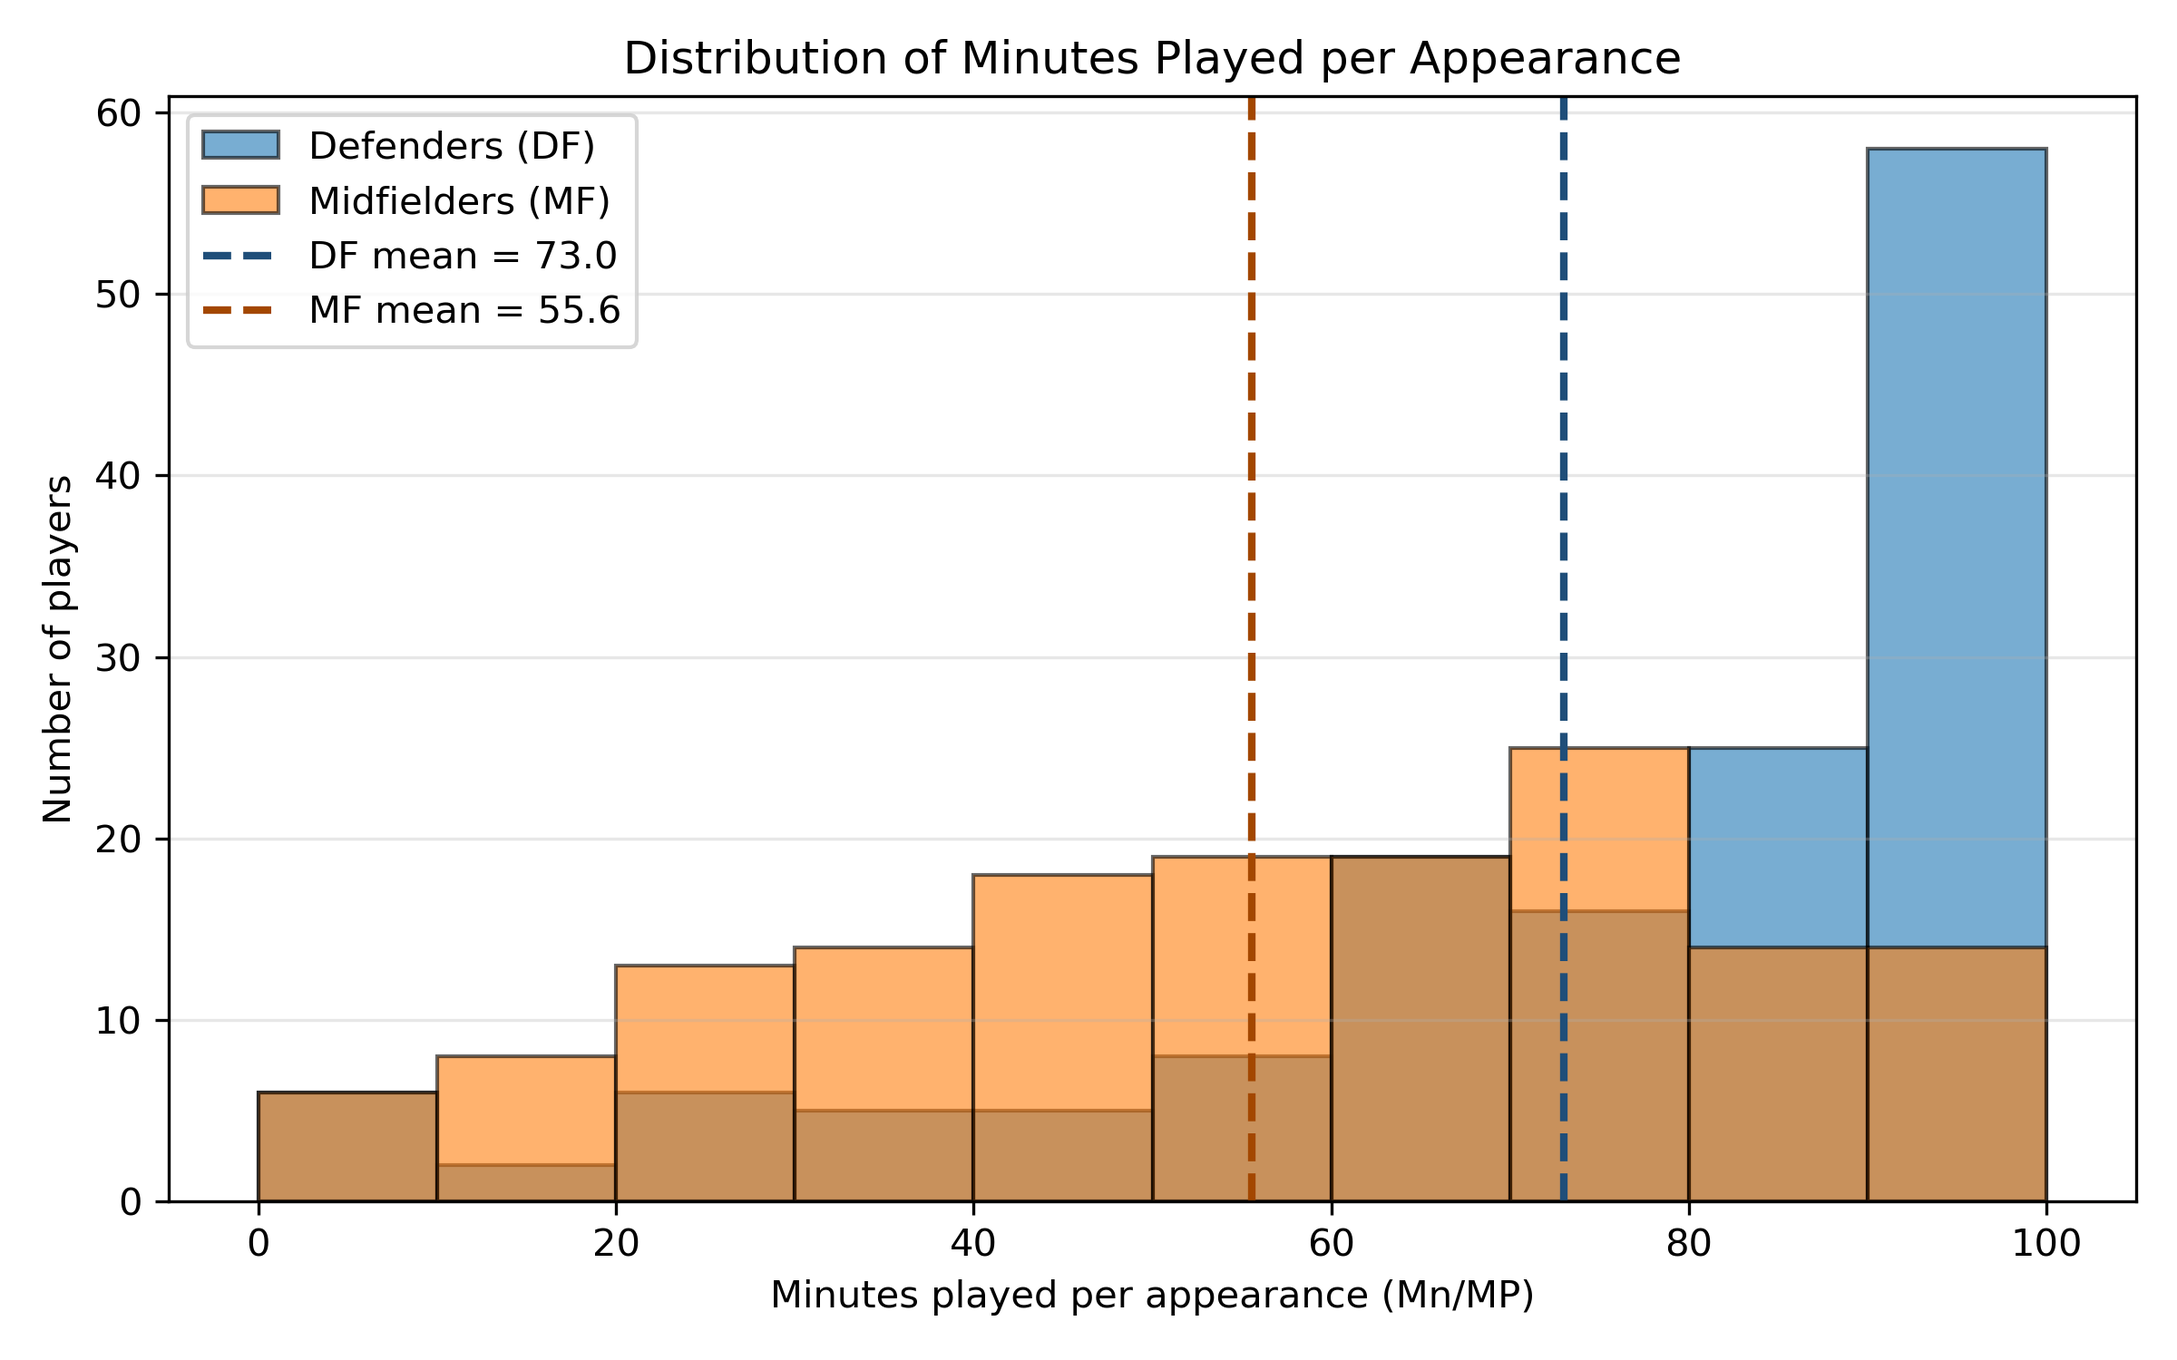
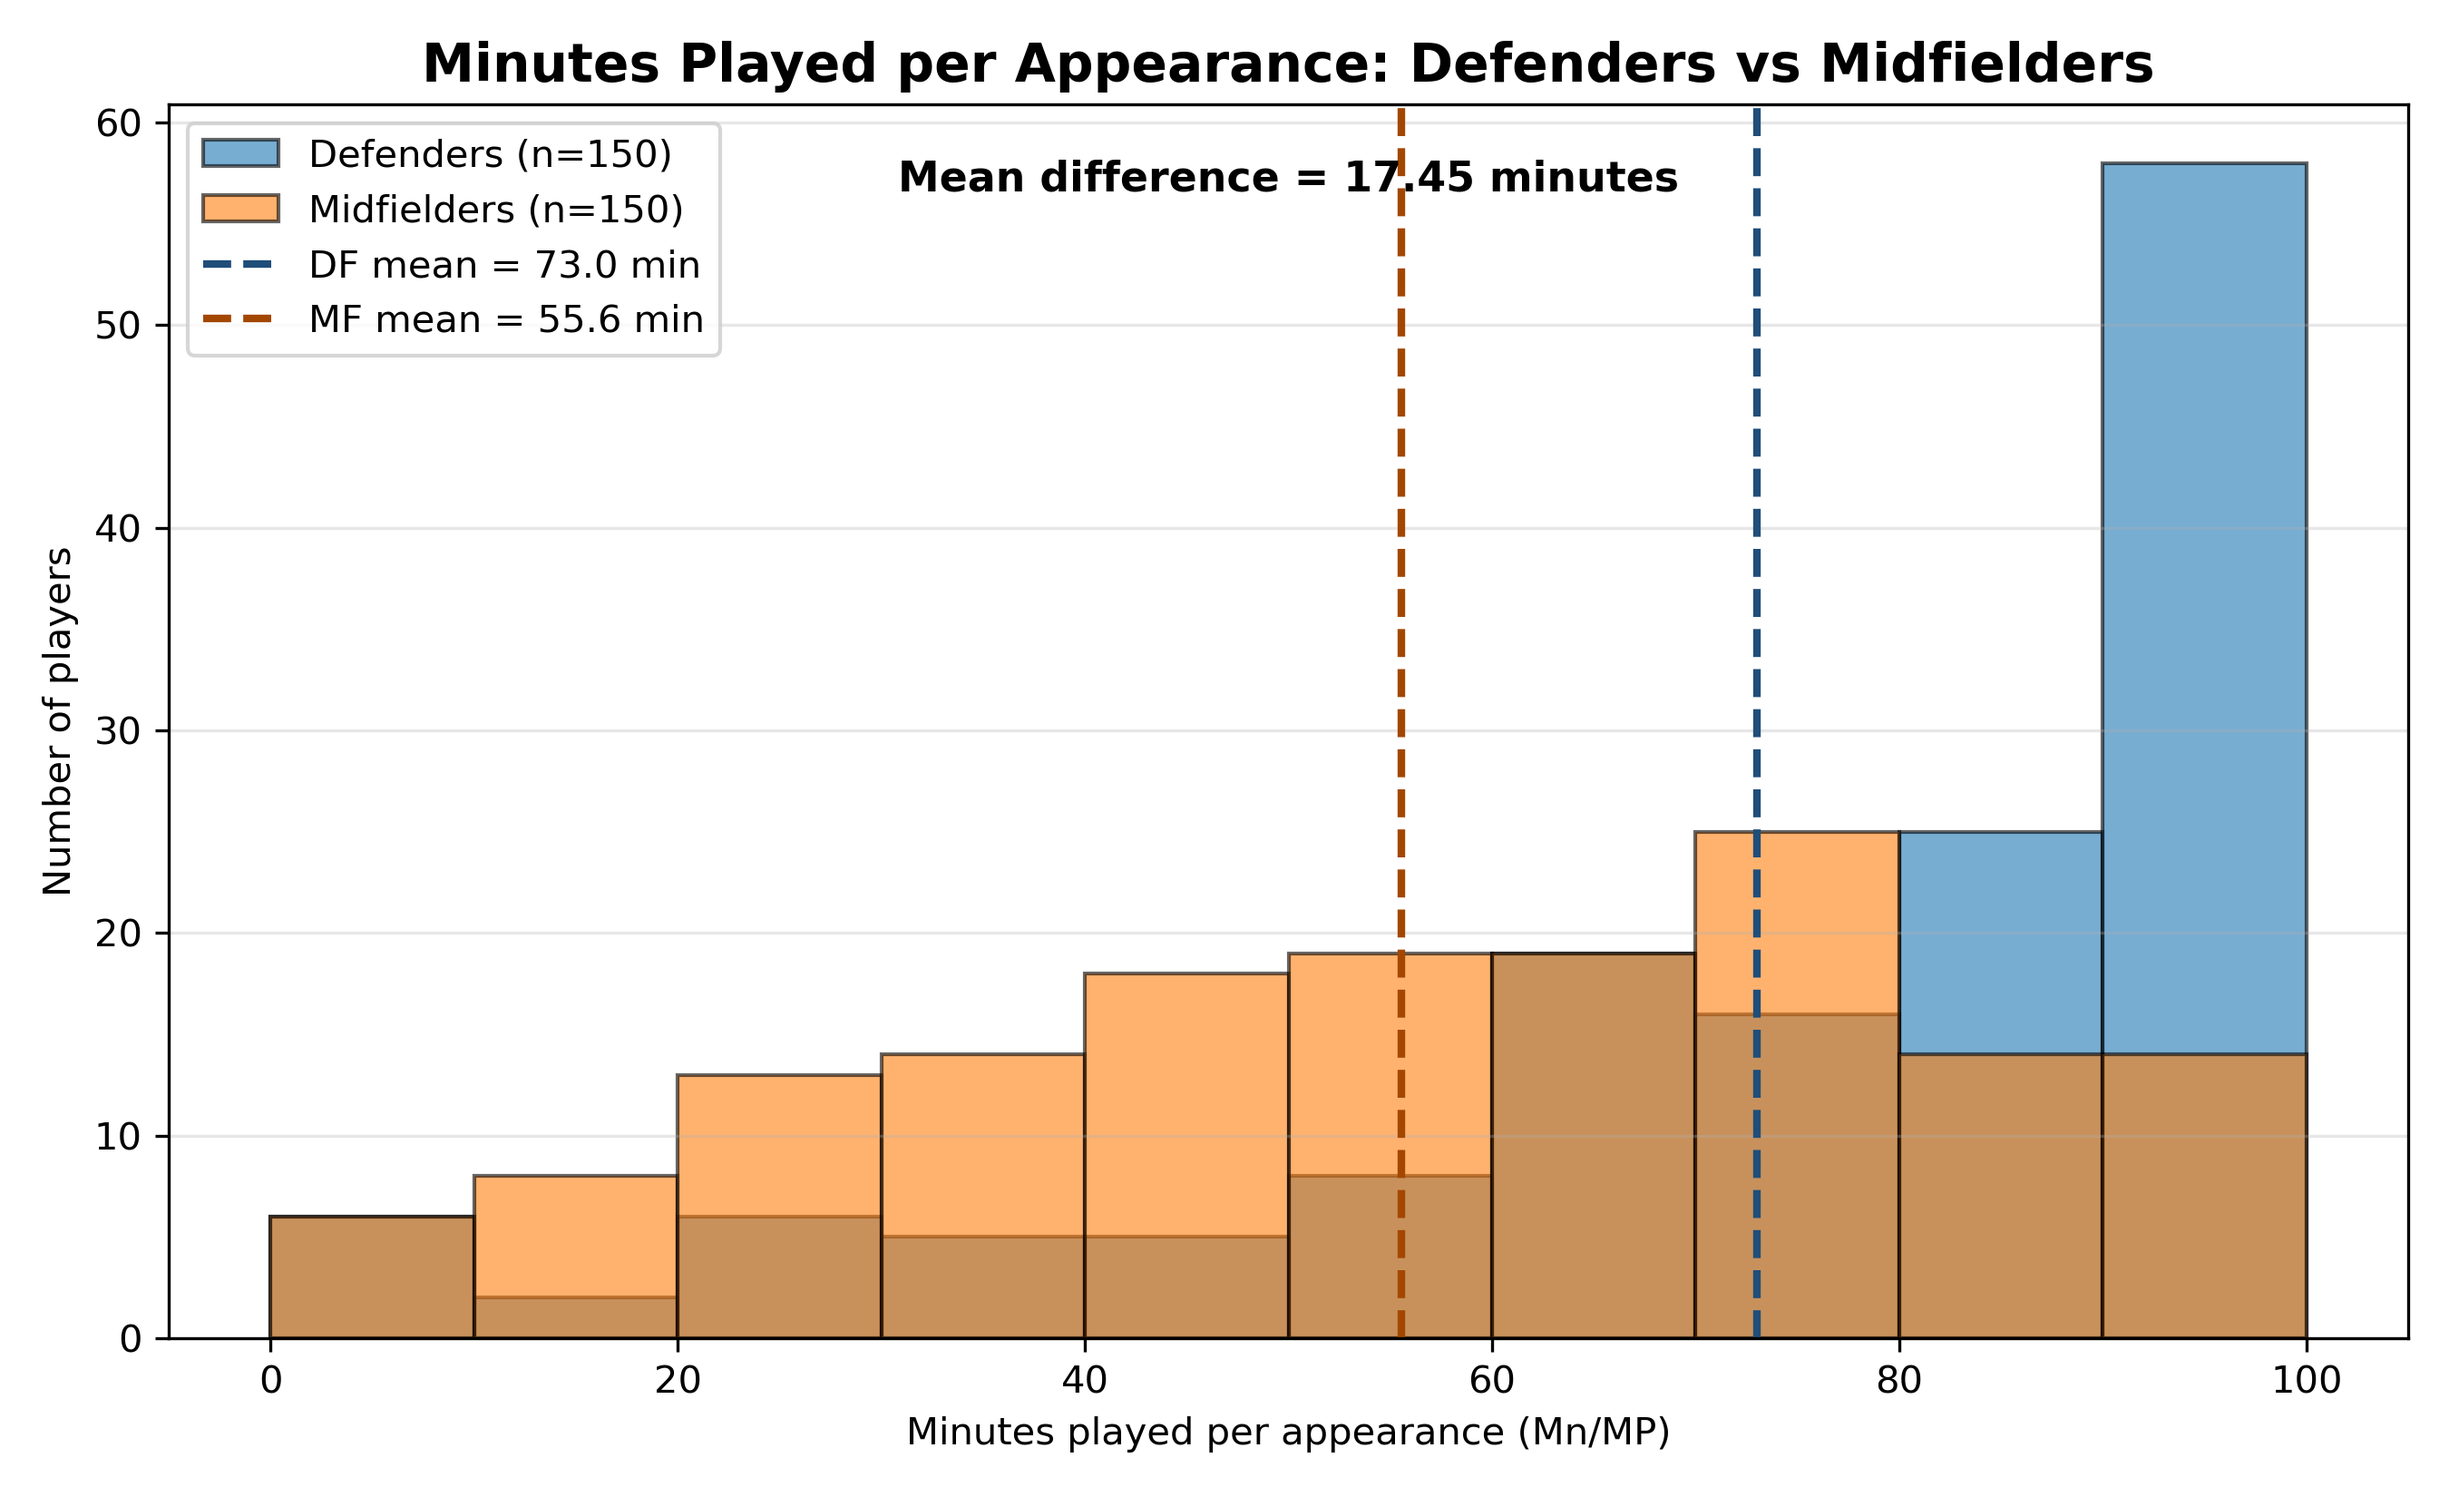
Enhance playing time analysis by adding detailed statistics and visualizations for confidence intervals

Changed region(s): [[0.0, 0.0307, 1.0, 0.9813], [0.8438, 0.736, 0.875, 0.7667]]

diff --git a/Dinuka-Playing-Time-by-Player-Position/code/playing_time_by_position_analysis.py b/Dinuka-Playing-Time-by-Player-Position/code/playing_time_by_position_analysis.py
@@ -238,16 +238,26 @@ show_section("VISUALISATION")
 BIN_WIDTH = 10
 max_value = max(def_sample.max(), mid_sample.max())
 bins = np.arange(0, max_value + BIN_WIDTH, BIN_WIDTH)
-plt.figure(figsize=(8, 5))
-plt.hist(def_sample, bins=bins, alpha=0.6, label="Defenders (DF)", edgecolor="black")
-plt.hist(mid_sample, bins=bins, alpha=0.6, label="Midfielders (MF)", edgecolor="black")
-plt.axvline(def_sample.mean(), color="#1f4e79", linestyle="--", linewidth=2, label=f"DF mean = {def_sample.mean():.1f}")
-plt.axvline(mid_sample.mean(), color="#a34700", linestyle="--", linewidth=2, label=f"MF mean = {mid_sample.mean():.1f}")
-plt.title("Distribution of Minutes Played per Appearance")
+df_mean = def_sample.mean()
+mf_mean = mid_sample.mean()
+mean_difference = df_mean - mf_mean
+
+plt.figure(figsize=(9, 5.5))
+plt.hist(def_sample,bins=bins,alpha=0.6,label=f"Defenders (n={len(def_sample)})",edgecolor="black")
+plt.hist(mid_sample,bins=bins,alpha=0.6,label=f"Midfielders (n={len(mid_sample)})",edgecolor="black")
+
+# Mean lines
+plt.axvline(df_mean,color="#1f4e79",linestyle="--",linewidth=2,label=f"DF mean = {df_mean:.1f} min")
+plt.axvline(mf_mean,color="#a34700",linestyle="--",linewidth=2,label=f"MF mean = {mf_mean:.1f} min")
+
+# Mean difference annotation
+plt.text(0.5,0.93,f"Mean difference = {mean_difference:.2f} minutes",transform=plt.gca().transAxes,ha="center",fontsize=11,fontweight="bold")
+
+plt.title("Minutes Played per Appearance: Defenders vs Midfielders",fontsize=14,fontweight="bold")
 plt.xlabel("Minutes played per appearance (Mn/MP)")
 plt.ylabel("Number of players")
 plt.legend()
-plt.grid(axis="y",alpha=0.3)
+plt.grid(axis="y", alpha=0.3)
 plt.tight_layout()
 plt.savefig("../outputs/playing_time_histogram.png", dpi=300)
 plt.close()
@@ -298,6 +308,50 @@ confidence_table = pd.DataFrame(
 
 # Save confidence interval results
 confidence_table.round(3).to_csv("../outputs/confidence_intervals.csv", index=False)
+
+#======================================== CONFIDENCE INTERVAL VISUALISATION ============================================
+
+# Visualise the sample means and the 95% confidence intervals calculated in the previous section.
+
+groups = ["Defenders\n(DF)", "Midfielders\n(MF)"]
+means = [def_mean, mid_mean]
+lower_errors = [def_mean - def_ci_lower, mid_mean - mid_ci_lower]
+upper_errors = [def_ci_upper - def_mean, mid_ci_upper - mid_mean]
+lowest_ci = min(def_ci_lower, mid_ci_lower)
+highest_ci = max(def_ci_upper, mid_ci_upper)
+
+fig, ax = plt.subplots(figsize=(10, 6))
+ax.errorbar(groups[0], means[0], yerr=[[lower_errors[0]], [upper_errors[0]]], fmt="o", markersize=10, capsize=8, linewidth=2, color="#1f77b4")
+ax.errorbar(groups[1], means[1], yerr=[[lower_errors[1]], [upper_errors[1]]], fmt="o", markersize=10, capsize=8, linewidth=2, color="#ff7f0e")
+ax.set_ylim(lowest_ci - 3, highest_ci + 5)
+ax.set_xlim(-0.15, 1.15)
+ax.annotate(
+    f"{def_mean:.2f} min",
+    xy=(0, def_mean),
+    xytext=(18, 0),
+    textcoords="offset points",
+    ha="left",
+    va="center",
+    fontsize=11,
+    fontweight="bold"
+)
+ax.annotate(
+    f"{mid_mean:.2f} min",
+    xy=(1, mid_mean),
+    xytext=(-18, 0),
+    textcoords="offset points",
+    ha="right",
+    va="center",
+    fontsize=11,
+    fontweight="bold"
+)
+ax.set_title("Mean Minutes Played per Appearance\nwith 95% Confidence Intervals", fontsize=14, fontweight="bold", pad=15)
+ax.set_ylabel("Mean minutes per appearance (Mn/MP)", fontsize=11)
+ax.grid(axis="y", alpha=0.3)
+
+fig.savefig("../outputs/playing_time_confidence_intervals.png", dpi=300, bbox_inches="tight", pad_inches=0.33)
+plt.close()
+print("\nConfidence interval visualisation saved as: playing_time_confidence_intervals.png")
 
 #======================================== TWO-SAMPLE t-TEST ============================================================
 show_section("TWO-SAMPLE t-TEST")
@@ -418,3 +472,4 @@ print("4. confidence_intervals.csv")
 print("5. ttest_results.csv")
 print("6. summary_table.csv")
 print("7. playing_time_histogram.png")
+print("8. playing_time_confidence_intervals.png")
